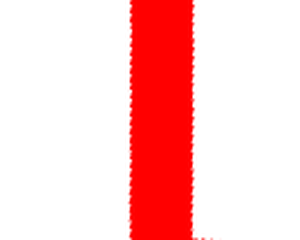
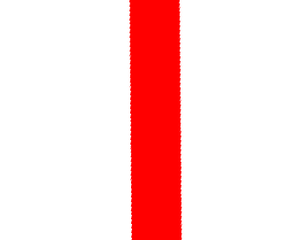
higher quality

Changed region(s): [[0.57, 0.0, 0.72, 1.0], [0.42, 0.0, 0.45, 1.0]]

diff --git a/cut.py b/cut.py
@@ -1,5 +1,6 @@
 from PIL import Image
 from math import *
+Image.MAX_IMAGE_PIXELS = None
 
 left_up_gps = {"x": 120.129917, "y": 30.272621}
 right_down_gps = {"x": 120.133689, "y": 30.266071}
@@ -14,19 +15,24 @@ theta = acos(cos(left_up_gps["y"]*pi/180)*cos(right_down_gps["y"]*pi/180)*cos(le
 rdis = ((left_up_pic["x"]-right_down_pic["x"])**2+(left_up_pic["y"]-right_down_pic["y"])**2)**0.5/(earth_R*theta)
 cut_range = int(rdis*real_meters)
 # print(cut_range)
-y_offset = 26
+y_offset = 40
 
 
 def cut_navigation(gps, yaw):
     img = Image.open('navigation.png')
+    map = Image.open('map.png')
     center_x = int((gps.x-left_up_gps["x"])/(right_down_gps["x"]-left_up_gps["x"]) * (right_down_pic["x"]-left_up_pic["x"]) + left_up_pic["x"])
     center_y = int((gps.y - left_up_gps["y"]) / (right_down_gps["y"] - left_up_gps["y"]) * (right_down_pic["y"] - left_up_pic["y"]) + left_up_pic["y"])
-    center_x = center_x * img.width / 829
-    center_y = center_y * img.height /755
+    center_x = center_x * img.width / map.width
+    center_y = center_y * img.height/ map.height
     img = img.rotate(angle=yaw, center=(center_x, center_y))
-    pic_cut_range = int(cut_range*img.height/755)
-    print(pic_cut_range)
-    img = img.crop(box=(center_x-pic_cut_range*0.625, center_y-pic_cut_range-y_offset, center_x+pic_cut_range*0.625, center_y-y_offset))
+    pic_cut_range = int(cut_range*img.height/map.height)
+
+    #we ensure the height of the picture equals to 20 meters ()i n the real world
+    #but we arbitrary scaled the width (use coefficient k)of the picture for rationality of nav pic
+    k = 0.8
+
+    img = img.crop(box=(center_x-pic_cut_range*k, center_y-pic_cut_range-y_offset, center_x+pic_cut_range*k, center_y-y_offset))
     img = img.resize((300, 240), Image.ANTIALIAS)
     return img
 
@@ -38,6 +44,6 @@ class GPS_item:
 
 
 if __name__ == "__main__":
-    the_gps = GPS_item(120.13068884676356, 30.275299720398763)
+    the_gps = GPS_item(120.13073414334556, 30.275256912648377)
     img = cut_navigation(the_gps, 105)
     img.save('after_cut.png')

diff --git a/get_postions.py b/get_postions.py
@@ -59,11 +59,13 @@ class LineDrawer:
     def draw_navigation(self):
         plt.clf()
         new_fig, new_ax = plt.subplots()
-        new_ax.set(xlim=[0, 829], ylim=[755, 0])
+        map = Image.open('map.png')
+        k = 1 # for more thin lines(seem to be useless)
+        new_ax.set(xlim=[0, map.width * k], ylim=[map.height * k, 0]) 
         plt.axis('off')
 
-        new_ax.plot(self.xs, self.ys, color='red', linewidth=1)
-        plt.savefig('navigation.png', bbox_inches='tight', pad_inches=0, dpi=2000)
+        new_ax.plot([x*k for x in self.xs], [y*k for y in self.ys], color='red', linewidth=1)
+        plt.savefig('navigation.png', bbox_inches='tight', pad_inches=0, dpi=4000)# for the high quality of picture
 
     def __call__(self, event):
         # undo last point if [middle button]
